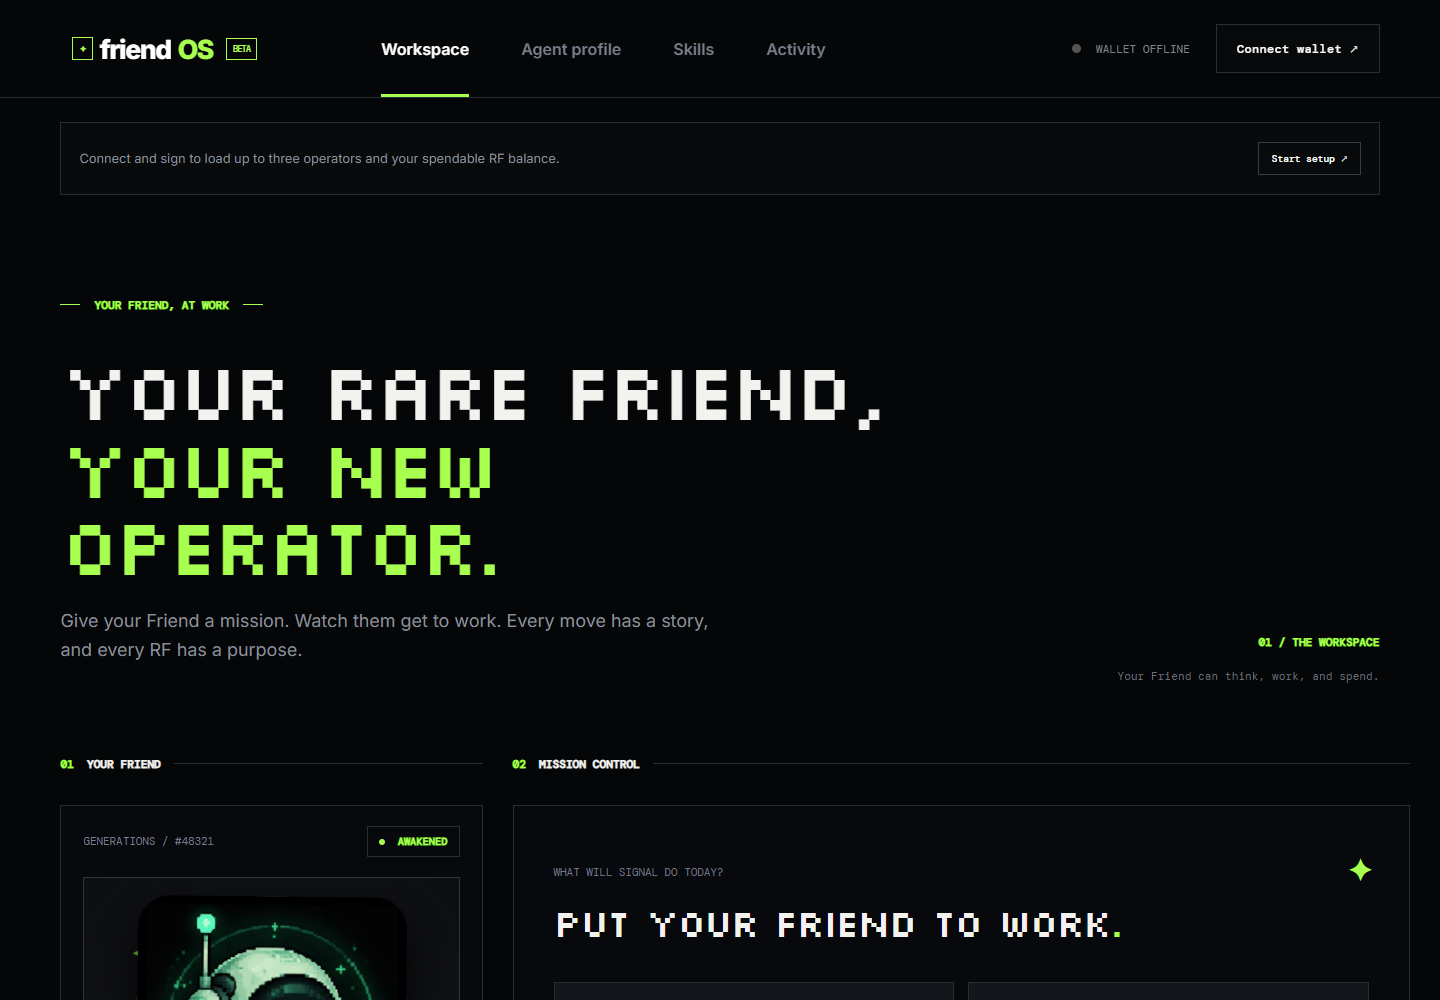
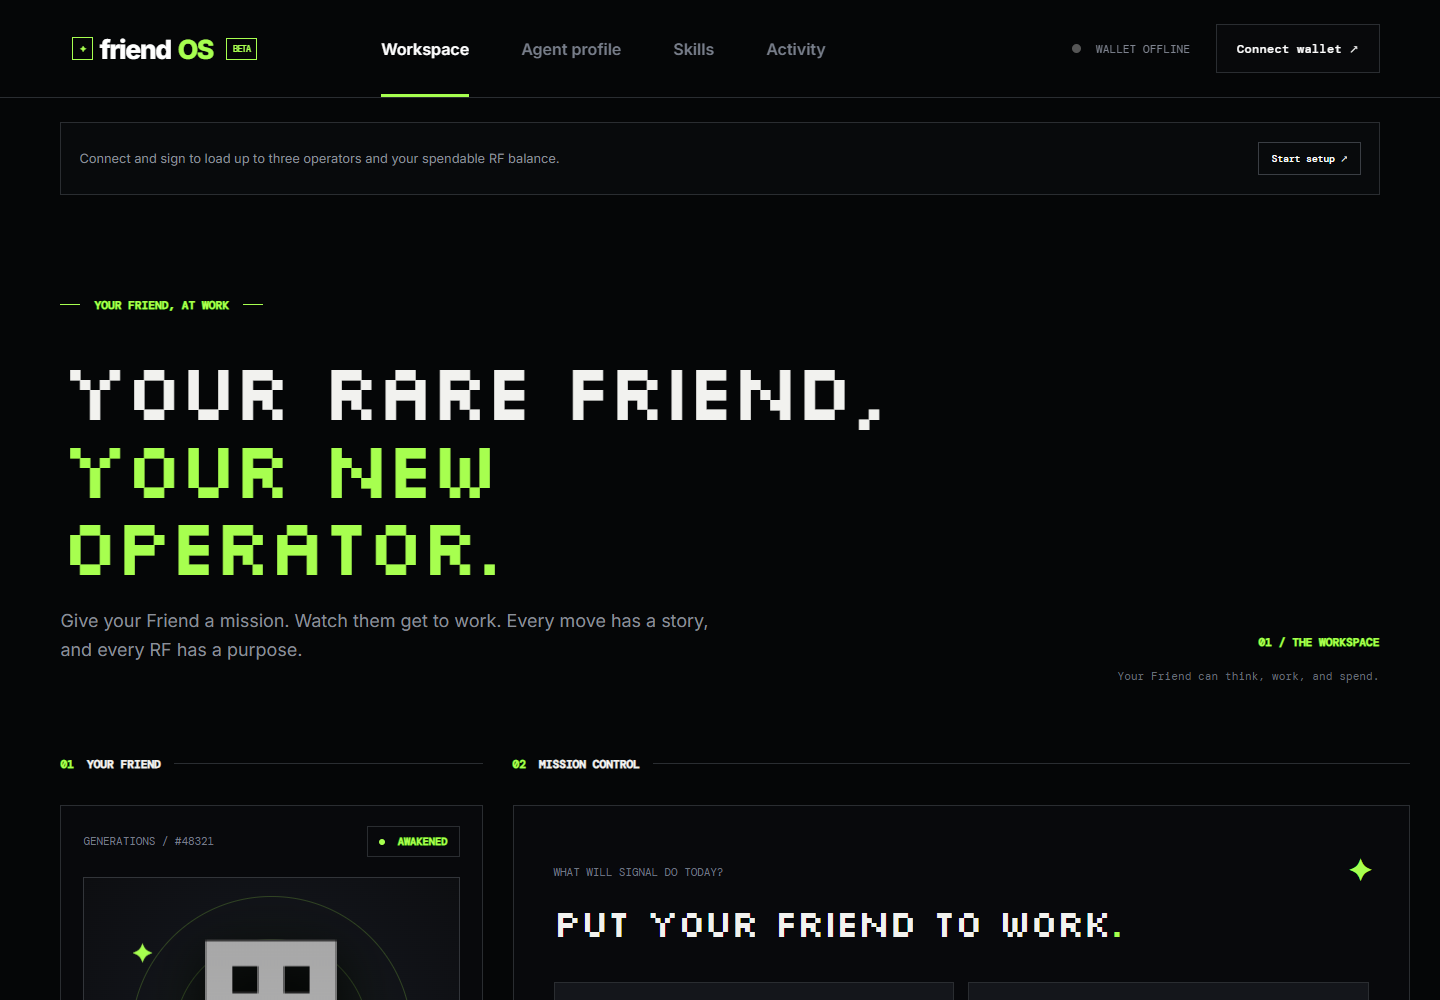
feat: adopt supplied pixel Friends across operator UI

Changed region(s): [[0.0938, 0.899, 0.2812, 1.0]]

diff --git a/src/app/App.tsx b/src/app/App.tsx
@@ -22,6 +22,7 @@ export function App() {
   const [showAgentSkills, setShowAgentSkills] = useState(false)
   const [showCapabilities, setShowCapabilities] = useState(false)
   const [showFriends, setShowFriends] = useState(false)
+  const [booting, setBooting] = useState(() => sessionStorage.getItem('friendos-booted') !== 'yes')
   const [selectedMission, setSelectedMission] = useState('research')
   const [request, setRequest] = useState('')
   const [overlay, setOverlay] = useState<Overlay>('none')
@@ -52,6 +53,13 @@ export function App() {
   const installSkill = (skillId: string) => { const skill = skillCatalog.find((item) => item.id === skillId); if (skill) { setPendingSkill(skill); setPurchaseAgentId(friend.tokenId) } }
 
   useEffect(() => {
+    if (!booting) return
+    sessionStorage.setItem('friendos-booted', 'yes')
+    const timer = window.setTimeout(() => setBooting(false), 1200)
+    return () => window.clearTimeout(timer)
+  }, [booting])
+
+  useEffect(() => {
     if (overlay !== 'working') return
     if (step >= executionSteps.length - 1 && agentReady) {
       const timer = window.setTimeout(() => {
@@ -75,6 +83,7 @@ export function App() {
   }
 
   return <div className={`site view-${view}`} style={{ '--friend-accent': friend.color } as React.CSSProperties}>
+    <AnimatePresence>{booting && <BootScreen friend={demoIdentities[0]} />}</AnimatePresence>
     <header className="topbar">
       <button className="brand" onClick={() => { setView('workspace'); window.scrollTo({ top: 0, behavior: 'smooth' }) }}><Spark />friend<span>OS</span><i>BETA</i></button>
       <nav><button className={view === 'workspace' ? 'active' : ''} onClick={() => { setView('workspace'); window.scrollTo({ top: 0 }) }}>Workspace</button><button className={view === 'profile' ? 'active' : ''} onClick={() => { setView('profile'); window.scrollTo({ top: 0 }) }}>Agent profile</button><button className={view === 'skills' ? 'active' : ''} onClick={() => { setView('skills'); window.scrollTo({ top: 0 }) }}>Skills</button><button onClick={() => { setView('workspace'); window.setTimeout(() => activityRef.current?.scrollIntoView({ behavior: 'smooth' })) }}>Activity</button></nav>
@@ -104,7 +113,7 @@ export function App() {
       <section className="about" ref={aboutRef}><Spark /><p>FriendOS gives Rare Friends useful work, visible costs, and a memory that grows with every mission.</p><div><span>LEVEL {String(level.level).padStart(2, '0')}</span><b>{progress.xp} XP</b><i style={{ width: `${Math.max(3, level.percent)}%` }} /></div></section>
     </main>
     <footer><div className="brand"><Spark />friend<span>OS</span></div><p>THE OPERATING SYSTEM FOR YOUR FRIEND</p><strong>Your Friend can think, work, and spend.</strong><small>VIBEATHON PROTOTYPE · RF SPENDING AND BURNS ARE SIMULATED</small></footer>
-    <MissionOverlay overlay={overlay} friendName={friend.name} friendGlyph={friend.glyph} step={step} report={report} receipt={receipt} agentSource={agentSource} onClose={() => setOverlay('none')} />
+    <MissionOverlay overlay={overlay} friend={friend} step={step} report={report} receipt={receipt} agentSource={agentSource} onClose={() => setOverlay('none')} />
     <AnimatePresence>{showCapabilities && <motion.div className="purchase-overlay capability-overlay" initial={{ opacity: 0 }} animate={{ opacity: 1 }} exit={{ opacity: 0 }}><section><button onClick={() => setShowCapabilities(false)}>×</button><span>{friend.name.toUpperCase()} / CAPABILITIES</span><h2>What can this operator do?</h2><p>{friend.name} combines its {friend.archetype.toLowerCase()} identity with every skill installed on NFT #{friend.tokenId}. This list updates automatically when a new skill is acquired.</p><div className="capability-list">{progress.installedSkills.map((id) => { const skill = skillCatalog.find((item) => item.id === id); const mastery = progress.skillMastery[id] ?? 0; return skill ? <article key={id}><i>{skill.icon}</i><div><strong>{skill.name}</strong><p>{skill.description}</p><small>Best for: {missions.filter((mission) => mission.skillId === id).map((mission) => mission.name).join(', ') || 'Specialized community tasks'}</small></div><aside>RANK {Math.floor(mastery / 100) + 1}<span>{mastery} XP</span></aside></article> : null })}</div><div className="native-capabilities"><strong>NATIVE OPERATOR TRAITS</strong><span>{friend.primarySkill}</span><span>{friend.secondarySkill}</span>{friend.traits.map((trait) => <span key={trait}>{trait}</span>)}</div></section></motion.div>}</AnimatePresence>
     <AnimatePresence>{showAgentSkills && <motion.div className="purchase-overlay skills-overlay" initial={{ opacity: 0 }} animate={{ opacity: 1 }} exit={{ opacity: 0 }}><section><button onClick={() => setShowAgentSkills(false)}>×</button><span>{friend.name.toUpperCase()} / ACQUIRED SKILLS</span><h2>Abilities that grow through work.</h2><p>Relevant missions train the skill they use. Installed skills earn 25 mastery XP per matching task; baseline ability earns only 8 XP.</p><div className="mastery-list">{progress.installedSkills.map((id) => { const skill = skillCatalog.find((item) => item.id === id); const mastery = progress.skillMastery[id] ?? 0; const rank = Math.floor(mastery / 100) + 1; return skill ? <article key={id}><i>{skill.icon}</i><div><strong>{skill.name}</strong><small>{skill.description}</small><span><b style={{ width: `${mastery % 100}%` }} /></span></div><aside>RANK {rank}<small>{mastery} MASTERY XP</small><em>{skill.usageCost} RF / USE</em></aside></article> : null })}</div></section></motion.div>}</AnimatePresence>
     <AnimatePresence>{pendingSkill && <motion.div className="purchase-overlay" initial={{ opacity: 0 }} animate={{ opacity: 1 }} exit={{ opacity: 0 }}><section><button onClick={() => setPendingSkill(null)}>×</button><span>CONFIRM SKILL INSTALLATION</span><h2>Who will learn {pendingSkill.name}?</h2><p>This skill is installed on one operator profile and paid from that operator’s RF wallet.</p><div className="agent-purchase-list">{identities.map((item) => { const itemProgress = { ...initialProgress(), ...friendsProgress[item.tokenId] }; return <label key={item.tokenId} className={purchaseAgentId === item.tokenId ? 'selected' : ''}><input type="radio" name="purchase-agent" checked={purchaseAgentId === item.tokenId} onChange={() => setPurchaseAgentId(item.tokenId)} /><OperatorAvatar friend={item} compact /><span><strong>{item.name}</strong>#{item.tokenId} · {itemProgress.balance} RF</span></label> })}</div><div className="purchase-total"><span>TOTAL</span><strong>{pendingSkill.price} RF</strong></div><button className="confirm-purchase" onClick={() => { rawInstallSkill(purchaseAgentId, pendingSkill.id, pendingSkill.price); setPendingSkill(null) }}>Confirm and install ↗</button></section></motion.div>}</AnimatePresence>
@@ -132,7 +141,8 @@ function TrainingLab() { const [minted, setMinted] = useState(false); const [nam
 function Spark() { return <i className="spark" aria-hidden="true">✦</i> }
 function OperatorAvatar({ friend, compact = false }: { friend: ReturnType<typeof createFriendIdentity>; compact?: boolean }) { return <span className={`operator-avatar avatar-${friend.avatarIndex ?? Number(BigInt(friend.tokenId) % 3n)} ${compact ? 'compact' : ''}`} role="img" aria-label={`${friend.name} operator avatar`} /> }
 function PixelFriend({ friend, compact = false }: { friend: ReturnType<typeof createFriendIdentity>; compact?: boolean }) { return <OperatorAvatar friend={friend} compact={compact} /> }
+function BootScreen({ friend }: { friend: ReturnType<typeof createFriendIdentity> }) { return <motion.div className="boot-screen" initial={{ opacity: 1 }} exit={{ opacity: 0, scale: 1.04 }} transition={{ duration: .35 }}><OperatorAvatar friend={friend} /><strong>friend<span>OS</span></strong><p>BRINGING YOUR FRIEND ONLINE</p><i><b /></i></motion.div> }
 function Stat({ label, value }: { label: string; value: string }) { return <div><span>{label}</span><strong>{value}</strong></div> }
 function EconomyCard({ label, value, note, icon }: { label: string; value: number; note: string; icon: string }) { return <article><span>{label}</span><i>{icon}</i><strong>{value}<small> RF</small></strong><p>{note}</p></article> }
-function MissionOverlay({ overlay, friendName, friendGlyph, step, report, receipt, agentSource, onClose }: { overlay: Overlay; friendName: string; friendGlyph: string; step: number; report: ResearchReport; receipt: MissionRecord | null; agentSource: AgentSource; onClose: () => void }) { return <AnimatePresence>{overlay !== 'none' && <motion.div className="overlay" initial={{ opacity: 0 }} animate={{ opacity: 1 }} exit={{ opacity: 0 }}><motion.section initial={{ y: 30, opacity: 0 }} animate={{ y: 0, opacity: 1 }} exit={{ y: 20, opacity: 0 }}>{overlay === 'working' ? <><button className="overlay-close" onClick={onClose}>×</button><div className="working-avatar">{friendGlyph}<span /></div><p className="micro">MISSION IN PROGRESS</p><h2>{friendName} is on it<em>.</em></h2><div className="steps">{executionSteps.map((item, index) => <p key={item} className={index < step ? 'done' : index === step ? 'active' : ''}><span>{index < step ? '✓' : index === step ? '●' : '○'}</span>{item}</p>)}</div></> : <><button className="overlay-close" onClick={onClose}>×</button><p className="micro">{receipt?.receiptId} / COMPLETE</p><h2>Here’s what {friendName} found<em>.</em></h2><div className="report"><article><h3>Executive summary</h3><p>{report.summary}</p><ReportList title="Key findings" items={report.findings} /><ReportList title="Opportunities" items={report.opportunities} /><ReportList title="Next actions" items={report.nextActions} /></article><aside><strong>MISSION RECEIPT</strong><dl><div><dt>RF spent</dt><dd>{receipt?.rfSpent} RF</dd></div><div><dt>RF burned</dt><dd>{receipt?.rfBurned} RF</dd></div><div><dt>Compute</dt><dd>{receipt?.computeAllocation} RF</dd></div><div><dt>{receipt?.developerAllocation ? 'Skill creator' : 'Ecosystem'}</dt><dd>{receipt?.developerAllocation || receipt?.ecosystemAllocation} RF</dd></div><div><dt>Skill used</dt><dd>{receipt?.skillName}</dd></div><div><dt>XP / CRED</dt><dd>+{receipt?.xpEarned} / +{receipt?.credEarned}</dd></div></dl><small>{receipt?.developerAllocation ? `${receipt.skillDeveloper} EARNS ${receipt.developerAllocation} RF · ` : ''}{agentSource === 'openai' ? 'AI REPORT' : 'OFFLINE REPORT'}</small></aside></div><button className="done-button" onClick={onClose}>Return to workspace ↗</button></>}</motion.section></motion.div>}</AnimatePresence> }
+function MissionOverlay({ overlay, friend, step, report, receipt, agentSource, onClose }: { overlay: Overlay; friend: ReturnType<typeof createFriendIdentity>; step: number; report: ResearchReport; receipt: MissionRecord | null; agentSource: AgentSource; onClose: () => void }) { return <AnimatePresence>{overlay !== 'none' && <motion.div className="overlay" initial={{ opacity: 0 }} animate={{ opacity: 1 }} exit={{ opacity: 0 }}><motion.section initial={{ y: 30, opacity: 0 }} animate={{ y: 0, opacity: 1 }} exit={{ y: 20, opacity: 0 }}>{overlay === 'working' ? <><button className="overlay-close" onClick={onClose}>×</button><div className="working-avatar"><OperatorAvatar friend={friend} /><span /></div><p className="micro">MISSION IN PROGRESS</p><h2>{friend.name} is on it<em>.</em></h2><div className="steps">{executionSteps.map((item, index) => <p key={item} className={index < step ? 'done' : index === step ? 'active' : ''}><span>{index < step ? '✓' : index === step ? '●' : '○'}</span>{item}</p>)}</div></> : <><button className="overlay-close" onClick={onClose}>×</button><p className="micro">{receipt?.receiptId} / COMPLETE</p><h2>Here’s what {friend.name} found<em>.</em></h2><div className="report"><article><h3>Executive summary</h3><p>{report.summary}</p><ReportList title="Key findings" items={report.findings} /><ReportList title="Opportunities" items={report.opportunities} /><ReportList title="Next actions" items={report.nextActions} /></article><aside><strong>MISSION RECEIPT</strong><dl><div><dt>RF spent</dt><dd>{receipt?.rfSpent} RF</dd></div><div><dt>RF burned</dt><dd>{receipt?.rfBurned} RF</dd></div><div><dt>Compute</dt><dd>{receipt?.computeAllocation} RF</dd></div><div><dt>{receipt?.developerAllocation ? 'Skill creator' : 'Ecosystem'}</dt><dd>{receipt?.developerAllocation || receipt?.ecosystemAllocation} RF</dd></div><div><dt>Skill used</dt><dd>{receipt?.skillName}</dd></div><div><dt>XP / CRED</dt><dd>+{receipt?.xpEarned} / +{receipt?.credEarned}</dd></div></dl><small>{receipt?.developerAllocation ? `${receipt.skillDeveloper} EARNS ${receipt.developerAllocation} RF · ` : ''}{agentSource === 'openai' ? 'AI REPORT' : 'OFFLINE REPORT'}</small></aside></div><button className="done-button" onClick={onClose}>Return to workspace ↗</button></>}</motion.section></motion.div>}</AnimatePresence> }
 function ReportList({ title, items }: { title: string; items: string[] }) { return <section><h3>{title}</h3><ul>{items.map((item) => <li key={item}>{item}</li>)}</ul></section> }

diff --git a/src/responsive-tabs.css b/src/responsive-tabs.css
@@ -26,7 +26,8 @@
   .topbar .top-actions { margin-left: 8px; }
 }
 
-.operator-avatar{position:relative;z-index:2;display:block;width:72%;aspect-ratio:1;background-image:url('/assets/operator-avatars.webp');background-size:300% 100%;background-repeat:no-repeat;border-radius:12%;filter:drop-shadow(0 18px 25px #000);animation:avatar-float 3s ease-in-out infinite alternate}.operator-avatar.avatar-0{background-position:0 0}.operator-avatar.avatar-1{background-position:50% 0}.operator-avatar.avatar-2{background-position:100% 0}.operator-avatar.compact{width:34px;border-radius:7%;animation:none;filter:none}@keyframes avatar-float{to{transform:translateY(-9px) rotate(1deg)}}
+.operator-avatar{position:relative;z-index:2;display:block;width:72%;aspect-ratio:1;background-image:url('/assets/friend-operators.png');background-size:300% 100%;background-repeat:no-repeat;image-rendering:pixelated;filter:drop-shadow(0 18px 25px #000);animation:avatar-float 3s steps(8,end) infinite alternate}.operator-avatar.avatar-0{background-position:0 0}.operator-avatar.avatar-1{background-position:50% 0}.operator-avatar.avatar-2{background-position:100% 0}.operator-avatar.compact{width:34px;animation:none;filter:none}@keyframes avatar-float{to{transform:translateY(-9px)}}
+.boot-screen{position:fixed;inset:0;z-index:100;display:grid;place-items:center;align-content:center;gap:14px;background:#050607}.boot-screen .operator-avatar{width:126px;animation:boot-float .65s steps(4,end) infinite alternate}.boot-screen strong{font-size:2rem}.boot-screen strong span{color:var(--green)}.boot-screen p{margin:0;color:#7d8490;font:600 .62rem 'DM Mono';letter-spacing:.13em}.boot-screen>i{width:180px;height:3px;margin-top:10px;overflow:hidden;background:#202428}.boot-screen>i b{display:block;width:45%;height:100%;background:var(--green);animation:boot-load 1s steps(8,end) infinite}@keyframes boot-float{to{transform:translateY(-8px)}}@keyframes boot-load{from{transform:translateX(-100%)}to{transform:translateX(225%)}}
 .wallet-session{display:flex;align-items:center;gap:24px;margin-top:24px;padding:15px 18px;border:1px solid var(--line);background:#080a0c}.wallet-session div span{display:block;color:#686f7a;font:400 .54rem 'DM Mono'}.wallet-session div strong{font:500 .68rem 'DM Mono'}.wallet-session>b{margin-left:auto;color:#ffbd5b;font:500 .6rem 'DM Mono'}.wallet-session>b.verified{color:var(--green)}.wallet-session button{padding:9px 12px;border:1px solid #3a3e44;color:#fff;background:none;font:500 .6rem 'DM Mono'}.wallet-session p{flex:1;color:#8a9099;font-size:.8rem}
 .onboarding,.purchase-overlay{position:fixed;inset:0;z-index:90;display:grid;place-items:center;padding:20px;background:#020304e8;backdrop-filter:blur(12px)}.onboarding>section,.purchase-overlay>section{width:min(680px,95vw);max-height:92vh;overflow:auto;padding:38px;border:1px solid #40454c;background:#080a0d}.onboarding>section>span,.purchase-overlay section>span{color:var(--green);font:500 .64rem 'DM Mono'}.onboarding h2,.purchase-overlay h2{font:400 2.1rem Silkscreen,monospace}.onboarding>section>p,.purchase-overlay p{color:#9096a0;line-height:1.6}.onboarding ol{padding:0;list-style:none}.onboarding li{display:grid;grid-template-columns:40px 1fr auto;align-items:center;gap:15px;padding:18px 0;border-top:1px solid var(--line);color:#555}.onboarding li.active{color:var(--green)}.onboarding li div{display:flex;flex-direction:column;color:#fff}.onboarding li small{margin-top:5px;color:#717883}.onboarding button,.confirm-purchase{padding:12px 15px;border:1px solid var(--green);color:#071006;background:var(--green);font:600 .65rem 'DM Mono'}.onboarding .finish-setup{width:100%;margin-top:15px}.onboarding .skip-setup{width:100%;border:0;color:#777;background:none}.purchase-overlay>section>button:first-child{float:right;border:0;color:#fff;background:none;font-size:1.5rem}.agent-purchase-list{display:grid;gap:9px}.agent-purchase-list label{display:grid;grid-template-columns:auto 55px 1fr;align-items:center;gap:12px;padding:12px;border:1px solid var(--line)}.agent-purchase-list label.selected{border-color:var(--green);background:#121b0d}.agent-purchase-list span{display:flex;flex-direction:column;color:#777;font-size:.7rem}.agent-purchase-list strong{color:#fff}.purchase-total{display:flex;justify-content:space-between;margin:18px 0}.confirm-purchase{width:100%}
 .view-skills main>:not(.skill-revenue):not(.skills-market):not(.training-lab):not(.wallet-session){display:none!important}.view-skills .wallet-session{display:flex}.training-lab{padding:90px 0}.training-grid{display:grid;grid-template-columns:1fr 1fr;gap:40px;margin-top:45px}.training-grid h2{font:400 2.5rem Silkscreen,monospace}.training-grid h2 em{color:var(--green);font-style:normal}.training-grid>div>p{color:#8b919b;line-height:1.7}.training-flow{display:flex;align-items:center;gap:9px;margin-top:30px}.training-flow span{padding:8px;border:1px solid var(--line);font:500 .58rem 'DM Mono'}.training-grid article{padding:30px;border:1px solid var(--line);background:#090b0e}.training-grid article>span{color:var(--green);font:500 .62rem 'DM Mono'}.training-grid label{display:block;margin:15px 0;color:#707783;font:500 .58rem 'DM Mono'}.training-grid input,.training-grid select{display:block;width:100%;margin-top:8px;padding:13px;border:1px solid var(--line);color:#fff;background:#121419}.training-grid button{padding:13px;border:1px solid var(--green);color:#071006;background:var(--green);font:600 .62rem 'DM Mono'}.training-question{padding:18px;border:1px solid var(--line);color:#ddd;line-height:1.6}.training-question>*{display:block}.training-question small{margin-top:12px;color:#7f8691}.training-question a{color:var(--green)}.decision-row{display:flex;gap:10px}.training-result{padding:13px;color:var(--green);background:#11190d}.trainer-progress{position:relative;height:30px;margin-top:20px;background:#15181c}.trainer-progress>span{display:block;height:3px;background:var(--green)}.trainer-progress small{position:absolute;top:10px;left:10px;color:#8a9099;font:500 .55rem 'DM Mono'}.skill-dialog::before{content:'SUBMISSIONS ARE NOT LIVE YET';display:block;margin-bottom:14px;color:#ffbd5b;font:600 .62rem 'DM Mono'}

diff --git a/src/capabilities.css b/src/capabilities.css
@@ -3,3 +3,4 @@
 @media(max-width:620px){.overlay:has(.working-avatar){right:12px;bottom:12px;width:calc(100vw - 24px)}.capability-list article{grid-template-columns:40px 1fr}.capability-list aside{grid-column:2;text-align:left}}
 .view-workspace .friend-column>.operator-capabilities-open{display:block;width:100%;margin-top:12px;padding:15px;border:1px solid color-mix(in srgb,var(--friend-accent) 55%,var(--line));color:var(--friend-accent);background:color-mix(in srgb,var(--friend-accent) 7%,#090b0e);font:600 .67rem 'DM Mono';cursor:pointer;text-align:left}.view-workspace .friend-column>.operator-capabilities-open:hover{background:color-mix(in srgb,var(--friend-accent) 13%,#090b0e)}
 .overlay:has(.working-avatar){right:18px;bottom:18px;width:min(330px,calc(100vw - 24px))}.overlay:has(.working-avatar)>section{padding:18px}.overlay:has(.working-avatar) .working-avatar{width:50px;margin-bottom:7px;font-size:1.8rem}.overlay:has(.working-avatar) .micro{font-size:.56rem}.overlay:has(.working-avatar) h2{font-size:1.15rem}.overlay:has(.working-avatar) .steps{margin:10px auto}.overlay:has(.working-avatar) .steps p{margin:2px 0;padding:5px 8px;font-size:.64rem}.overlay:has(.working-avatar) .overlay-close{top:6px;right:9px;font-size:1.2rem}
+.overlay:has(.working-avatar) .working-avatar{border-radius:0;background:transparent}.overlay:has(.working-avatar) .working-avatar>.operator-avatar{width:100%;filter:none}

diff --git a/README.md b/README.md
@@ -53,21 +53,24 @@ Connected-wallet `$RAREFRIENDS` holdings are real read-only chain data and are d
 
 ## Architecture
 
-```mermaid
-flowchart LR
-    A[Guest or wallet owner] --> B[FriendOS React UI]
-    B --> C[FriendSDK wallet session]
-    C --> D[Robinhood Chain]
-    D --> E[Owned Generations NFTs]
-    D --> F[On-chain sprite and Friend wallet]
-    D --> G[Read-only RF balance]
-    B --> H[Zustand operator state]
-    H --> I[Missions and receipts]
-    H --> J[Skills and mastery]
-    H --> K[Simulated RF ledger]
-    B --> L[/api/mission]
-    L --> M[OpenAI Responses API]
-    L -. unavailable .-> N[Deterministic offline reports]
+```text
+Guest or wallet owner
+        |
+        v
+FriendOS React UI
+   |          |-----------------------> Mission API
+   |          |                             |-- OpenAI Responses API
+   |          |                             `-- Deterministic offline reports
+   |          |
+   |          `--> Operator state
+   |                 |-- Missions and receipts
+   |                 |-- Skills and mastery
+   |                 `-- Simulated RF ledger
+   |
+   `--> FriendSDK wallet session --> Robinhood Chain
+                                      |-- Owned Generations NFTs
+                                      |-- On-chain sprites + Friend wallets
+                                      `-- Read-only RF balance
 ```
 
 The GitHub Pages demo is static and uses deterministic offline reports. `api/mission.ts` is available for serverless deployments configured with `OPENAI_API_KEY`.
